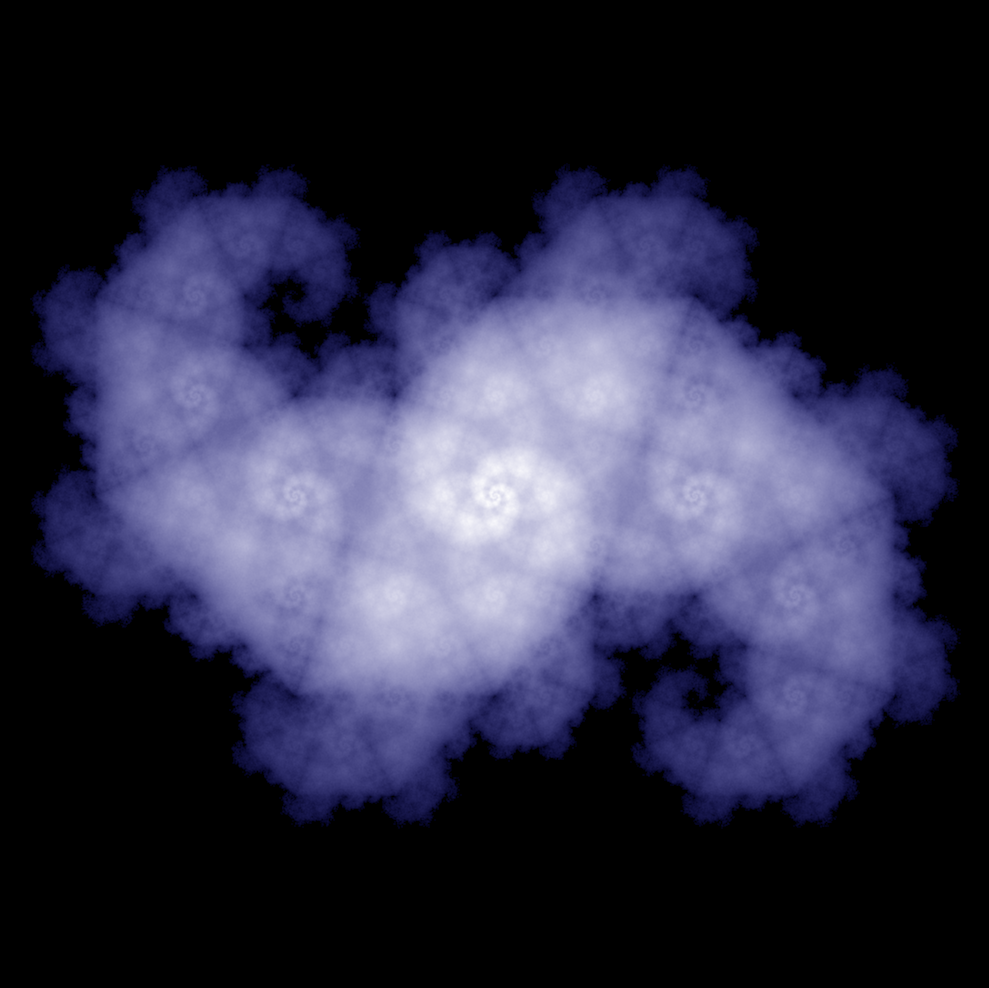
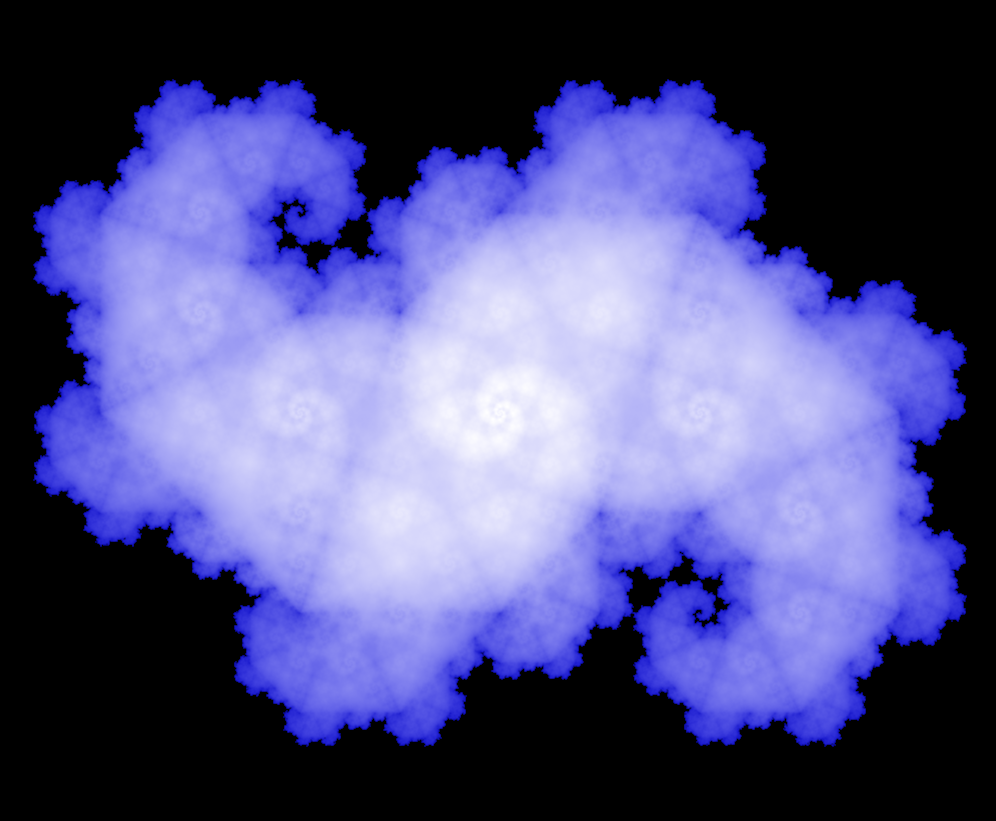
Update loop and coloring

diff --git a/examples/ifs/z2_heighway_dragon.rs b/examples/ifs/z2_heighway_dragon.rs
@@ -41,14 +41,15 @@ struct Model {
 }
 
 fn main() {
-    nannou::app(model).size(1000, 1000).event(event).run();
+    nannou::app(model).size(1000, 1000).run();
 }
 
 fn model(app: &App) -> Model {
     let _window = app.new_window().view(view).build().unwrap();
     Model { _window, angle: 0.0 }
 }
-
+/*
+// Can be used for 
 fn event(_app: &App, model: &mut Model, event: Event) {
     if let Event::WindowEvent {simple, ..} = event {
         match simple {
@@ -64,6 +65,7 @@ fn event(_app: &App, model: &mut Model, event: Event) {
         }
     }
 }
+*/
 
 fn view(app: &App, model: &Model, frame: Frame) {
     // NOTE: Can use to wait of user input
@@ -84,8 +86,8 @@ fn view(app: &App, model: &Model, frame: Frame) {
     const ZOOM: f32 = 5.0;
 
 
-    // rect overwhelming more memory efficient: 200M+ rect vs 1M ellipse
-    for _ in 0..200_000_000 {
+    // rect overwhelming more memory efficient: 1B+ rect vs 1M ellipse
+    for _ in 0..(5_000_000_000 as u64) {
         let r = rng.random_range(0.0..1.0);
 
         z2_dragon(r, &mut p);
@@ -116,8 +118,8 @@ fn view(app: &App, model: &Model, frame: Frame) {
         let b = 1.0;
 
         // Lower alpha and brightness for outer spirals
-        let brightness = t;
-        let alpha = t.powf(0.1);
+        let brightness = 1.0;
+        let alpha = t.powf(0.25);
 
         let color = srgba(r * brightness, g * brightness, b * brightness, alpha);
 
